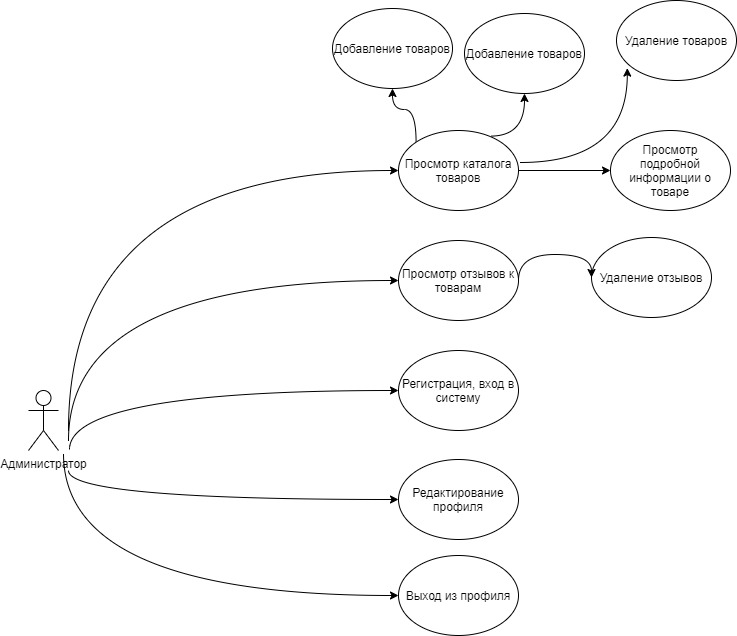
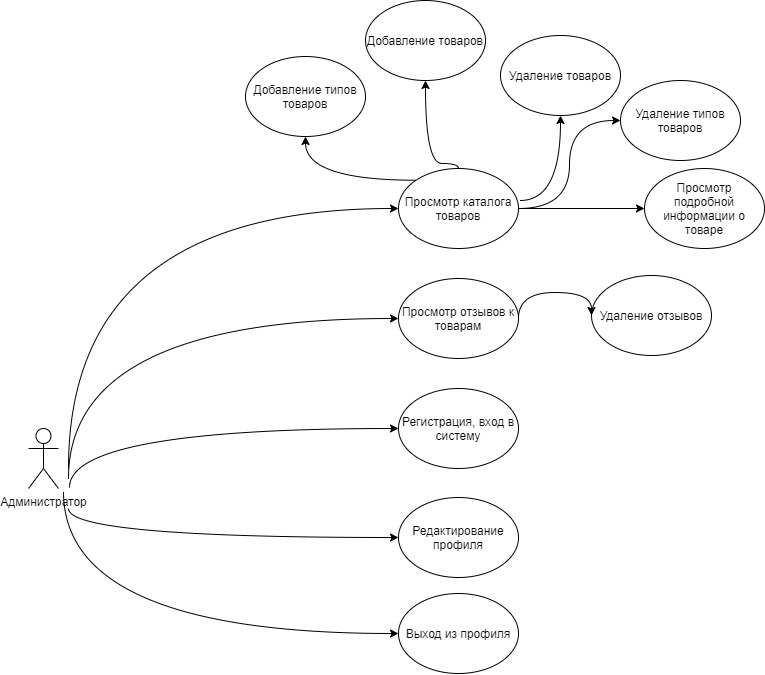
femtofix

diff --git a/README.md b/README.md
@@ -1,6 +1,6 @@
 # ArtShop
 ## Большой выбор товаров для хобби и творчества
-Основным направлением магазина являются товары для хобби и творчества, начиная от материалов, например, красок, холстов, бумаги, деревянных заготовк, глины, ткани, и заканчивая простыми и сложными "инструментами": кистями, мольбертами, аппаратами для выжигания и др.
+Основным направлением магазина являются товары для хобби и творчества, начиная от материалов, например, красок, холстов, бумаги, деревянных заготовок, глины, ткани, и заканчивая простыми и сложными "инструментами": кистями, мольбертами, аппаратами для выжигания и др.
 ### Цель работы
 Создание RESTFul API приложения-магазина для продажи товаров для хобби и творчества.
 ### Предоставляемая возможность
@@ -22,6 +22,7 @@
     + добавлять новые товары;
     + добавлять новый тип товаров;
     + удалять товары;
+	+ удалять типы товаров;
 * просматривать отзывы к товарам;
     + удалять отзывы;
 * редактировать профиль;
